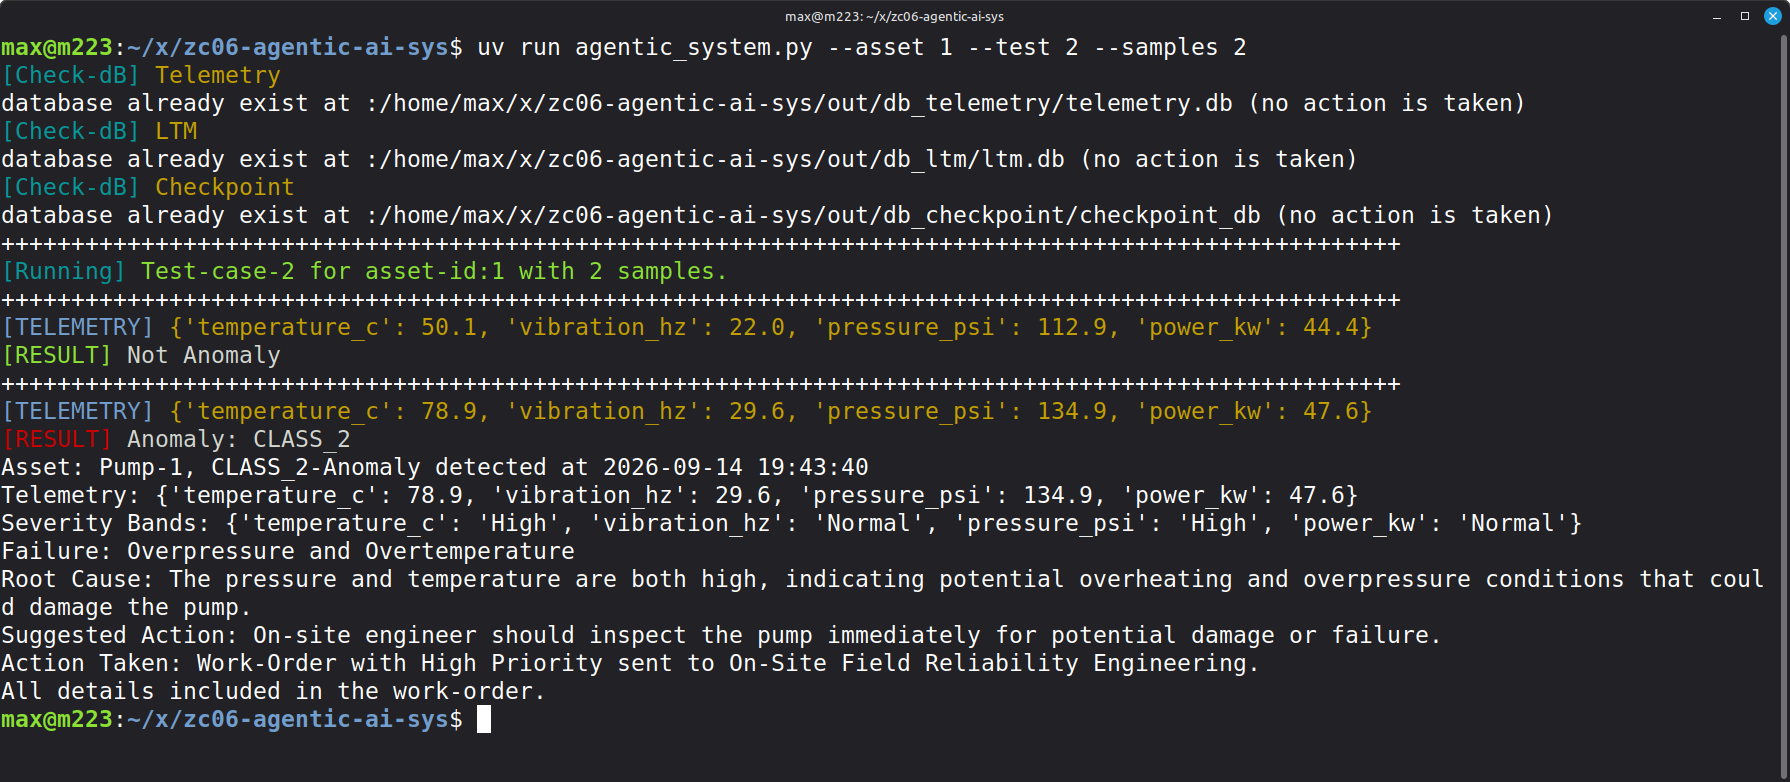
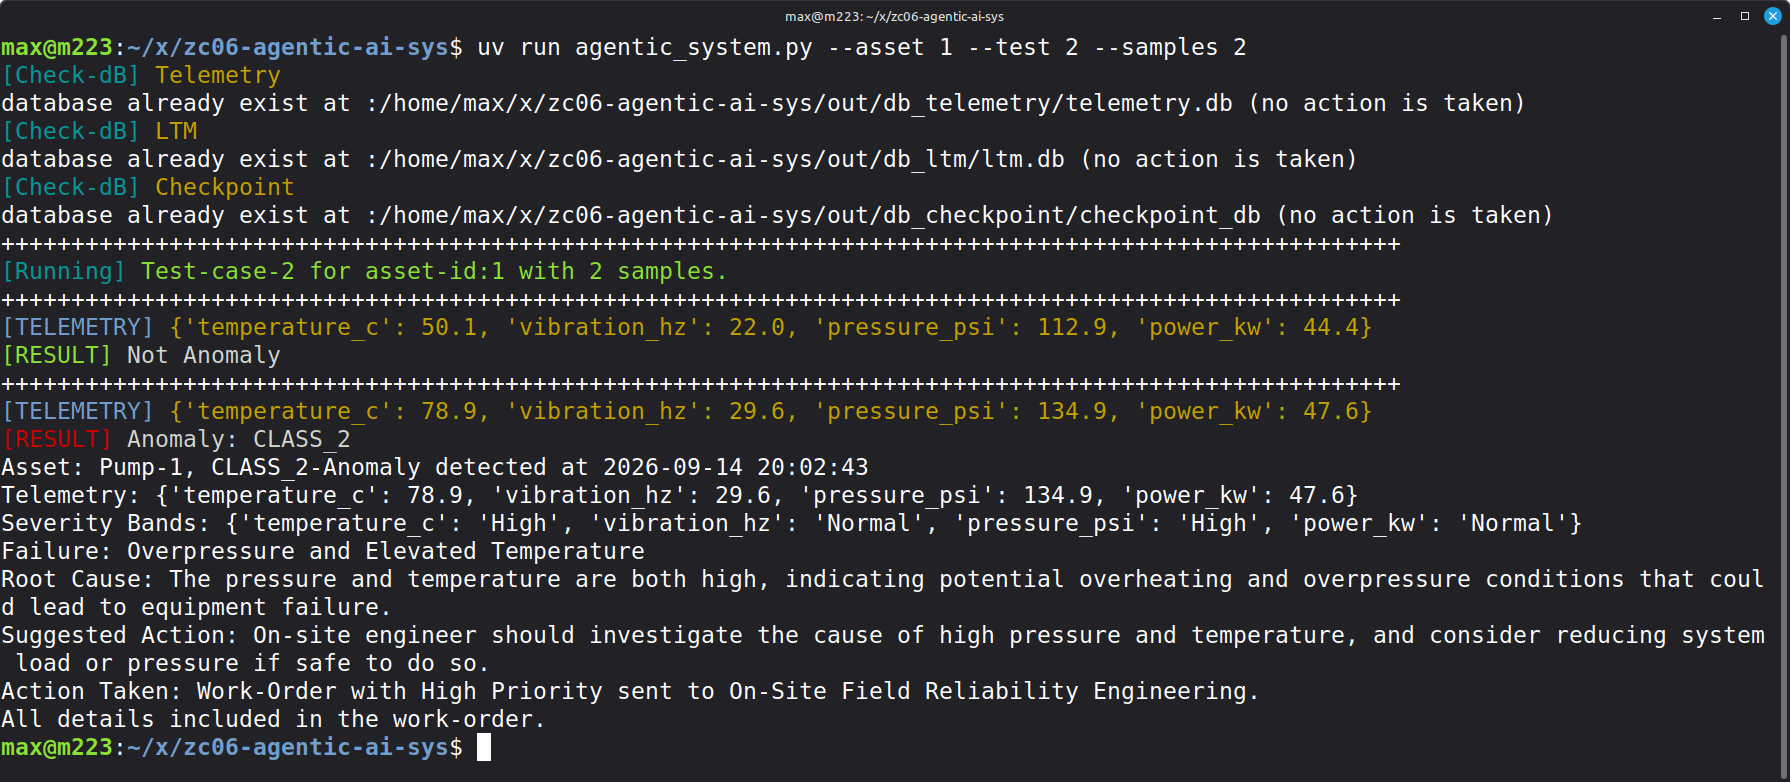
use mean value as target value in class-1 control

diff --git a/src/agents/agent_class1_control.py b/src/agents/agent_class1_control.py
@@ -37,31 +37,34 @@ def class1_control_node(state: AgentState, config: RunnableConfig) -> AgentState
 
         if VFD == 1 and severity_bands.get('pressure_psi','Normal')=='Low':
             n_min, n_max = get_telemetry_normal_range('pressure_psi', asset_id)
+            n_mean = (n_min+n_max)/2
             current = telemetry.get('pressure_psi', n_min)
-            target = min(n_min*1.2, n_max) # move 20% above min normal_value
+            target = n_mean # move to mean value instead of min(n_min*1.2, n_max) # move 20% above min normal_value
             action_taken = (
                 f"set VFD control to increase pressure_psi\n"
-                f"from {current}-Low pressure to {target} (20% above min Normal value)."
+                f"from {current}-Low pressure to {target} (mean Normal value)."
             )
             logger.info("pressure increase is activated.")
             return {'action_taken': action_taken}
         if VFD==-1:
             if severity_bands.get('pressure_psi','Normal')=='High':
                 n_min, n_max = get_telemetry_normal_range('pressure_psi', asset_id)
+                n_mean = (n_min+n_max)/2
                 current = telemetry.get('pressure_psi', n_max)
-                target = max(n_max*0.8, n_min) # move 20% below max normal_value
+                target = n_mean # move to mean value instead of max(n_max*0.8, n_min) # move 20% below max normal_value
                 action_taken = (
                     f"set VFD control to decrease pressure_psi\n"
-                    f"from {current}-High pressure to {target} (20% below max Normal value)."
+                    f"from {current}-High pressure to {target} (mean Normal value)."
                 )
                 logger.info("pressure decrease is activated.")
             elif severity_bands.get('power_kw','Normal')=='High':
                 n_min, n_max = get_telemetry_normal_range('power_kw', asset_id)
+                n_mean = (n_min+n_max)/2
                 current = telemetry.get('power_kw', n_max)
-                target = max(n_max*0.8, n_min) # move 20% below max normal_value
+                target = n_mean # move to mean value instead of max(n_max*0.8, n_min) # move 20% below max normal_value
                 action_taken = (
                     f"set VFD control to decrease power_kw\n"
-                    f"from {current}-High power_kw to {target} (20% below max Normal value)."
+                    f"from {current}-High power_kw to {target} (mean Normal value)."
                 )
                 logger.info("power decrease is activated.")
             else:
